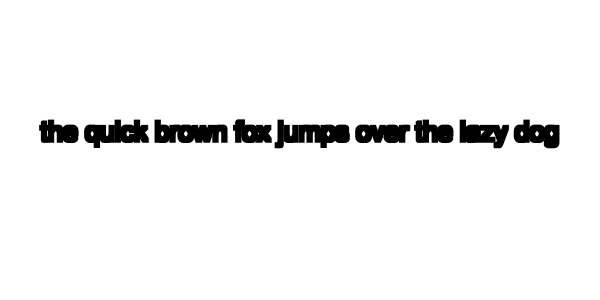
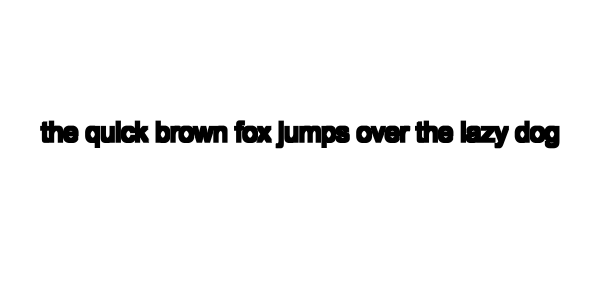
given my time constraints, I think increasing the pixel density will be the most useful, as I just iterate on the kernel size

Changed region(s): [[0.06, 0.39, 0.93, 0.48]]

diff --git a/Font Manipulation/weight_manipulation.py b/Font Manipulation/weight_manipulation.py
@@ -21,7 +21,7 @@ def apply_erosion(image_path, output_path="eroded_image.jpg", iterations=1):
         return
 
     # Create a 3x3 kernel
-    kernel = cv2.getStructuringElement(cv2.MORPH_RECT, (3, 3))
+    kernel = cv2.getStructuringElement(cv2.MORPH_RECT, (4, 4))
 
     # Apply erosion with the specified number of iterations
     eroded_image = cv2.erode(image, kernel, iterations=iterations)
@@ -33,4 +33,4 @@ def apply_erosion(image_path, output_path="eroded_image.jpg", iterations=1):
 # Example usage
 # Provide the path to your input image below
 input_image_path = "Tesseract_Test_Image.png"
-apply_erosion(input_image_path, "eroded_image3.png", iterations=2)  # Change iterations to control erosion power
+apply_erosion(input_image_path, "eroded_image3.png", iterations=1)  # Change iterations to control erosion power
